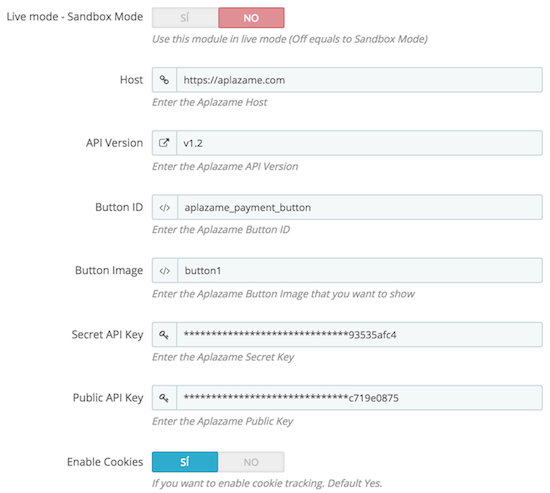
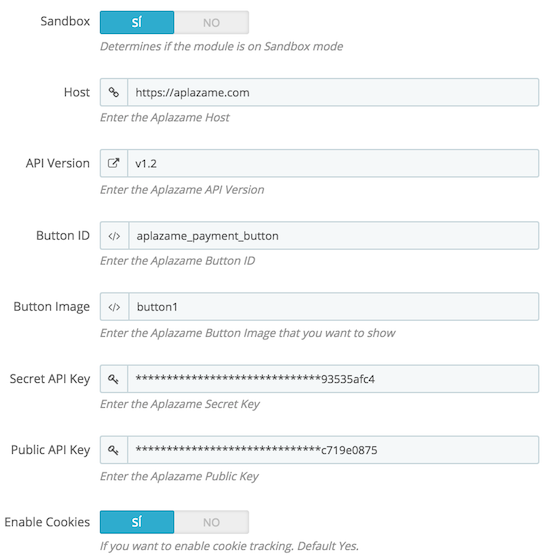
sandbox config and readme info

diff --git a/aplazame/aplazame.php b/aplazame/aplazame.php
@@ -58,7 +58,7 @@ Tu decides cuándo y cómo quieres pagar todas tus compras de manera fácil, có
             return false;
         }
 
-        Configuration::updateValue('APLAZAME_LIVE_MODE', false);
+        Configuration::updateValue('APLAZAME_SANDBOX', true);
         Configuration::updateValue('APLAZAME_ENABLE_COOKIES', true);
         Configuration::updateValue('APLAZAME_HOST', 'https://aplazame.com');
         Configuration::updateValue('APLAZAME_API_VERSION', 'v1.2');
@@ -84,7 +84,7 @@ Tu decides cuándo y cómo quieres pagar todas tus compras de manera fácil, có
     }
 
     public function uninstall() {
-        Configuration::deleteByName('APLAZAME_LIVE_MODE');
+        Configuration::deleteByName('APLAZAME_SANDBOX');
 
 
         return parent::uninstall();
@@ -158,20 +158,20 @@ Tu decides cuándo y cómo quieres pagar todas tus compras de manera fácil, có
                 'input' => array(
                     array(
                         'type' => (_PS_VERSION_ >= 1.6) ? 'switch' : 'radio',
-                        'label' => $this->l('Live mode - Sandbox Mode'),
-                        'name' => 'APLAZAME_LIVE_MODE',
+                        'label' => $this->l('Sandbox'),
+                        'name' => 'APLAZAME_SANDBOX',
                         'is_bool' => true,
-                        'desc' => $this->l('Use this module in live mode (Off equals to Sandbox Mode)'),
+                        'desc' => $this->l('Determines if the module is on Sandbox mode'),
                         'values' => array(
                             array(
                                 'id' => 'active_on',
                                 'value' => true,
-                                'label' => $this->l('Enabled')
+                                'label' => $this->l('Yes')
                             ),
                             array(
                                 'id' => 'active_off',
                                 'value' => false,
-                                'label' => $this->l('Disabled')
+                                'label' => $this->l('No')
                             )
                         ),
                     ),
@@ -255,7 +255,7 @@ Tu decides cuándo y cómo quieres pagar todas tus compras de manera fácil, có
      */
     protected function getConfigFormValues() {
         return array(
-            'APLAZAME_LIVE_MODE' => Configuration::get('APLAZAME_LIVE_MODE', null),
+            'APLAZAME_SANDBOX' => Configuration::get('APLAZAME_SANDBOX', null),
             'APLAZAME_HOST' => Configuration::get('APLAZAME_HOST', null),
             'APLAZAME_API_VERSION' => Configuration::get('APLAZAME_API_VERSION', null),
             'APLAZAME_BUTTON_ID' => Configuration::get('APLAZAME_BUTTON_ID', null),
@@ -295,7 +295,7 @@ Tu decides cuándo y cómo quieres pagar todas tus compras de manera fácil, có
             'aplazame_host' => Configuration::get('APLAZAME_HOST', null),
             'aplazame_public_key' => Configuration::get('APLAZAME_PUBLIC_KEY', null),
             'aplazame_button_id' => Configuration::get('APLAZAME_BUTTON_ID', null),
-            'aplazame_mode' => Configuration::get('APLAZAME_LIVE_MODE', null) ? 'false' : 'true',
+            'aplazame_is_sandbox' => Configuration::get('APLAZAME_SANDBOX', null) ? 'true' : 'false',
             'aplazame_currency_iso' => $currency->iso_code,
             'aplazame_cart_total' => self::formatDecimals($params['cart']->getOrderTotal()),
             'aplazame_button_image' => Configuration::get('APLAZAME_BUTTON_IMAGE', null),
@@ -440,7 +440,7 @@ Tu decides cuándo y cómo quieres pagar todas tus compras de manera fácil, có
             'aplazame_version' => Configuration::get('APLAZAME_API_VERSION', null),
             'aplazame_host' => Configuration::get('APLAZAME_HOST', null),
             'aplazame_public_key' => Configuration::get('APLAZAME_PUBLIC_KEY', null),
-            'aplazame_mode' => Configuration::get('APLAZAME_LIVE_MODE', null) ? 'false' : 'true',
+            'aplazame_is_sandbox' => Configuration::get('APLAZAME_SANDBOX', null) ? 'true' : 'false',
         ));
         return $this->display(__FILE__, 'views/templates/hook/header.tpl');
     }
@@ -522,7 +522,7 @@ Tu decides cuándo y cómo quieres pagar todas tus compras de manera fácil, có
         }
 
         $headers[] = 'Accept: ' . 'application/vnd.aplazame.' .
-                (Configuration::get('APLAZAME_LIVE_MODE', null) ? '' : 'sandbox.') . $version . '+json';
+                (Configuration::get('APLAZAME_SANDBOX', null) ? 'sandbox.' : '') . $version . '+json';
 
         if (extension_loaded('curl') == false || $method == 'PUT') {
             if($to_json && $values){

diff --git a/aplazame/controllers/front/redirect.php b/aplazame/controllers/front/redirect.php
@@ -43,7 +43,7 @@ class AplazameRedirectModuleFrontController extends ModuleFrontController
                     'aplazame_order_json' => json_encode($this->module->getCheckoutSerializer(0,Context::getContext()->cart->id), 128),
                     'aplazame_version' => ConfigurationCore::get('APLAZAME_API_VERSION', null),
                     'aplazame_host' => Configuration::get('APLAZAME_HOST', null),
-                    'aplazame_mode' => Configuration::get('APLAZAME_LIVE_MODE', null)?'false':'true',
+                    'aplazame_is_sandbox' => Configuration::get('APLAZAME_SANDBOX', null)?'true':'false',
             ));
             return $this->setTemplate('redirect.tpl');
         }

diff --git a/README.md b/README.md
@@ -12,20 +12,18 @@
 
 ![config](docs/config.png)
 
-- **Live mode - Sandbox Mode**: If you choose "NO", you have your module running on SandBox Mode (No charges against cards). Otherwise will be Production Mode. Verify that the Public and Secret Keys corresponding to the environment for. If you have any question about your keys, contact with Aplazame Team.
-- **Host**: Here you need to write the URL that is provided by Aplazame. Default value is: **https://aplazame.com**
-- **API Version**: Here you need to write the VERSION that is provided by Aplazame. Default value is: **v1.2**
-- **Button**: This value is the DOM id for your payment method on the cart. Is needed to hide if Aplazame is not ready to place a order in the system. The default value is **aplazame_payment_button**
+- **Sandbox**: Determines if the module is on Sandbox mode.
+- **Host**: Aplazame host **https://aplazame.com**
+- **API Version**: The latest version is: **v1.2**
+- **Button ID**: This value is the DOM id for your payment method on the cart. Is needed to hide if Aplazame is not ready to place a order in the system. The default value is **aplazame_payment_button**
 - **Button Image**: With this you can change the image that appear as payment method on you cart. Available at this moment:
     - **button1**:  [ ![Image](https://aplazame.com/static/img/buttons/button1.png "Aplazame") ](https://aplazame.com "Aplazame")
 
+- **Secret API Key**: Here is the Secret Key provided by Aplazame. You cannot share this key with anyone!!!
+- **Public API Key**: Here is the Public Key provided by Aplazame. 
+- **Enable Cookies**: If you want to enable cookie tracking for better interests. 
 
-- **Secret API Key**: Here is the Secret Key provided by Aplazame. Be sure to write the correct key that is for Live or Sandbox. You cannot share this key with anyone!!!
-- **Public API Key**: Here is the Public Key provided by Aplazame. Be sure to write the correct key that is for Live or Sandbox. 
-- **Enable Cookies**: If you want to enable cookie tracking. Default Yes. 
-
-> NOTE: Be sure that on all fields you don't keep any whitespace. Otherwise the module can generate unexpected results. 
-
+> NOTE: Be sure that on all fields you don't keep any whitespace. Otherwise the module can generate unexpected results.
 
 #### Live demo
 
